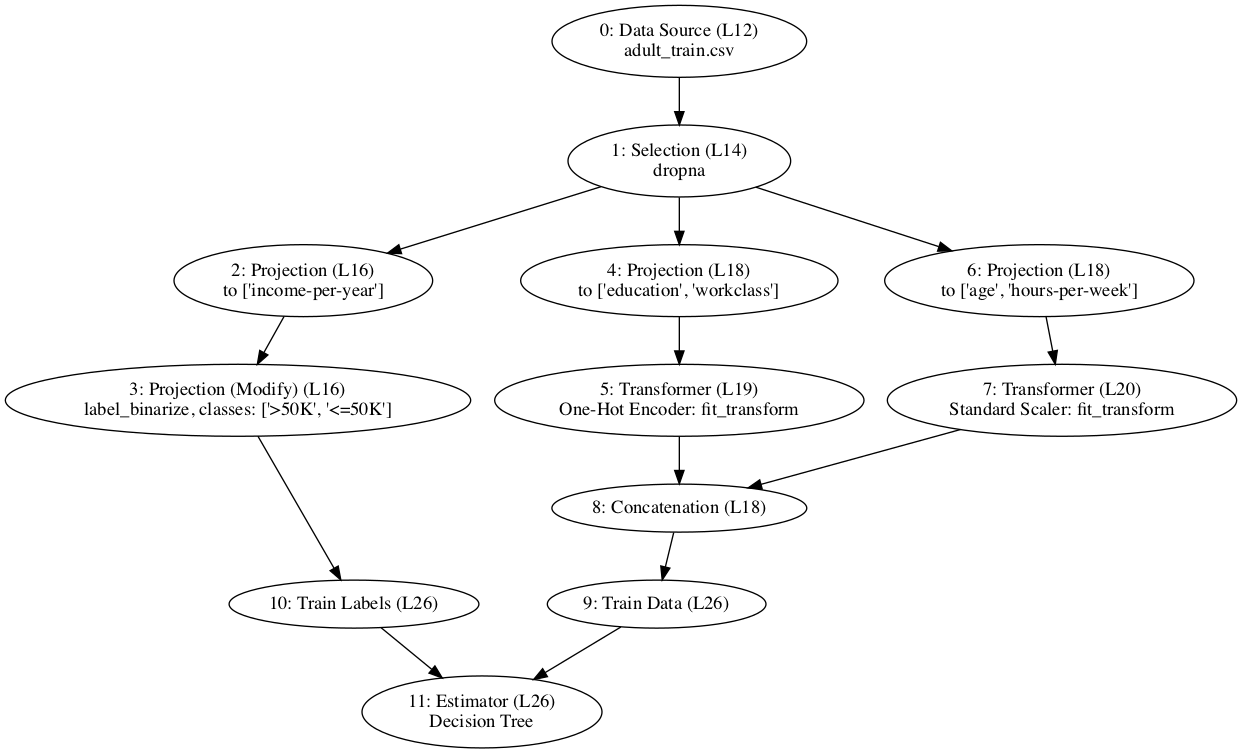
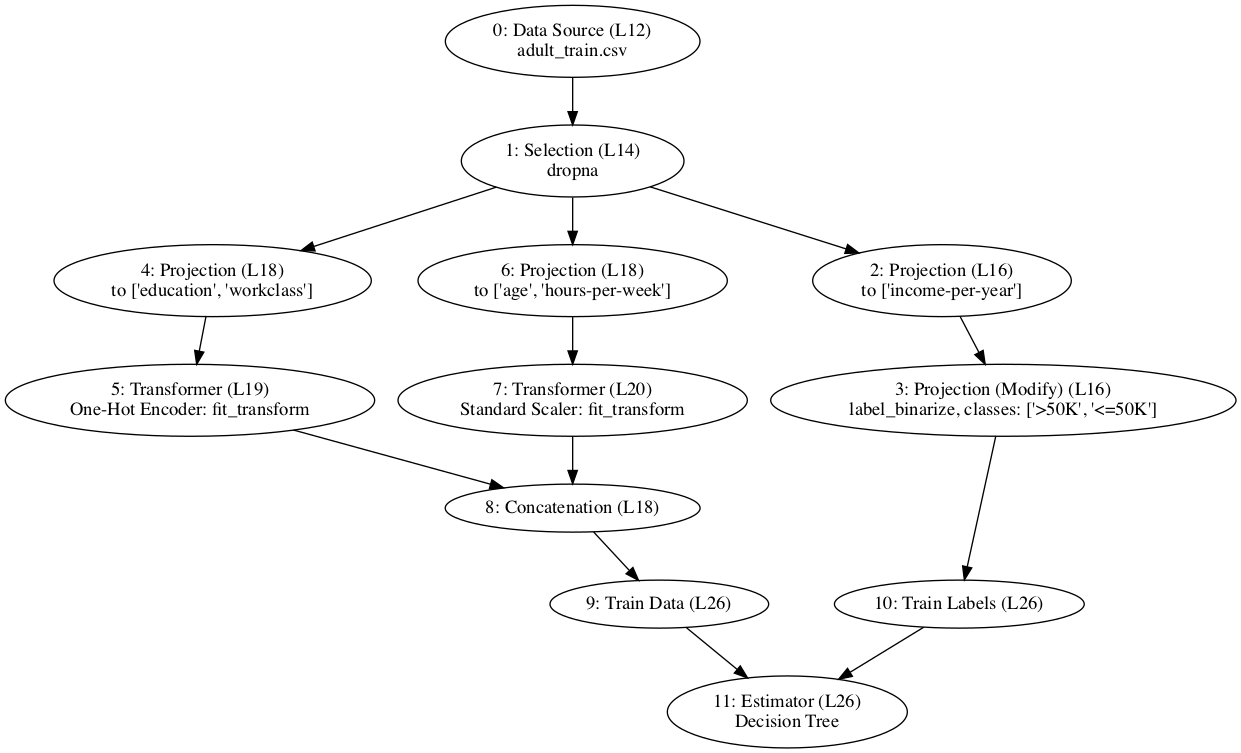
Getting closer, still some bugs

diff --git a/mlinspect/backends/_sklearn_backend.py b/mlinspect/backends/_sklearn_backend.py
@@ -48,13 +48,7 @@ class SklearnBackend(Backend):
             -> BackendResult:
         """The return value of some function"""
         # pylint: disable=too-many-arguments
-        if len(singleton.inspections) == 1 and isinstance(singleton.inspections[0], RowLineage) \
-                and operator_context.operator \
-                in {OperatorType.TRAIN_TEST_SPLIT, OperatorType.DATA_SOURCE, OperatorType.PROJECTION,
-                    OperatorType.PROJECTION_MODIFY,
-                    OperatorType.TRANSFORMER, OperatorType.TRAIN_DATA, OperatorType.TRAIN_LABELS,
-                    OperatorType.TEST_DATA, OperatorType.TEST_LABELS,
-                    OperatorType.ESTIMATOR, OperatorType.SCORE}:
+        if len(singleton.inspections) == 1 and isinstance(singleton.inspections[0], RowLineage):
             print("optimized mode")
             if operator_context.operator == OperatorType.DATA_SOURCE:
                 # inspection annotation
@@ -105,6 +99,8 @@ class SklearnBackend(Backend):
                         pandas_return_value = pandas.DataFrame({'array': pd_series})
                     elif isinstance(return_value, pandas.DataFrame):
                         pandas_return_value = return_value.reset_index(drop=True)
+                    elif isinstance(return_value, pandas.Series):
+                        pandas_return_value = pandas.DataFrame(return_value)
                     else:
                         assert False
                     lineage_dag_annotation = pandas.concat([pandas_return_value, annotations_df], axis=1)
@@ -211,8 +207,53 @@ class SklearnBackend(Backend):
                 # inspection output
                 return_value_with_annotation = create_wrapper_with_annotations(annotations_df, return_value)
                 return_value = BackendResult(return_value_with_annotation, inspection_outputs)
-            # TODO: Support score. We are only interested in output value (see map) but in the lineage of both
-            #  input values
+            elif operator_context.operator == OperatorType.CONCATENATION:
+                # inspection annotation
+                lineage_inspection = singleton.inspections[0]
+                inspection_name = str(lineage_inspection)
+                # TODO: Should we use a different format for performance reasons?
+                annotations = [input_info.result_annotation for input_info in input_infos]
+                annotations = [annotation_df.rename(columns={inspection_name: f'mlinspect_lineage_{index}'})
+                               for index, annotation_df in enumerate(annotations)]
+                annotations_df = pandas.concat(annotations, axis=1)
+                if len(annotations) == 1:
+                    annotations_df['mlinspect_lineage'] = annotations_df['mlinspect_lineage_0']
+                else:
+                    annotations_df['mlinspect_lineage'] = annotations_df \
+                        .apply(lambda row: row.mlinspect_lineage_0.union(row.mlinspect_lineage_1), axis=1)
+                    for index in range(1, len(annotations)):
+                        annotations_df['mlinspect_lineage'] = annotations_df \
+                            .apply(lambda row: row.mlinspect_lineage.union(row[f'mlinspect_lineage_{index}']), axis=1)
+                for index in range(len(annotations)):
+                    annotations_df.drop(f'mlinspect_lineage_{index}', inplace=True, axis=1)
+                inspection_outputs = {}
+                materialize_for_this_operator = (lineage_inspection.operator_type_restriction is None) or \
+                                                (operator_context.operator
+                                                 in lineage_inspection.operator_type_restriction)
+                if materialize_for_this_operator:
+                    if isinstance(return_value, numpy.ndarray):
+                        pd_series = pandas.Series(list(return_value))
+                        pandas_return_value = pandas.DataFrame({'array': pd_series})
+                    elif isinstance(return_value, csr_matrix):
+                        pd_series = pandas.Series(list(return_value.toarray()))
+                        pandas_return_value = pandas.DataFrame({'array': pd_series})
+                    elif isinstance(return_value, pandas.DataFrame):
+                        pandas_return_value = return_value.reset_index(drop=True)
+                    else:
+                        assert False
+                    lineage_dag_annotation = pandas.concat([pandas_return_value, annotations_df], axis=1)
+                    if lineage_inspection.row_count != RowLineage.ALL_ROWS:
+                        lineage_dag_annotation = lineage_dag_annotation.head(lineage_inspection.row_count)
+                else:
+                    lineage_dag_annotation = None
+                inspection_outputs[lineage_inspection] = lineage_dag_annotation
+                # inspection output
+                annotations_df = annotations_df.rename(columns={'mlinspect_lineage': inspection_name})
+                return_value_with_annotation = create_wrapper_with_annotations(annotations_df, return_value)
+                return_value = BackendResult(return_value_with_annotation, inspection_outputs)
+            else:
+                raise NotImplementedError("SklearnBackend doesn't know any operations of type '{}' yet!"
+                                          .format(operator_context.operator))
         else:
             if operator_context.operator == OperatorType.DATA_SOURCE:
                 return_value = execute_inspection_visits_data_source(operator_context, return_value,

diff --git a/mlinspect/testing/_testing_helper_utils.py b/mlinspect/testing/_testing_helper_utils.py
@@ -243,18 +243,24 @@ def run_and_assert_all_op_outputs_inspected(py_file_path, sensitive_columns, dag
     if custom_monkey_patching is None:
         custom_monkey_patching = []
 
+    # inspector_result = PipelineInspector \
+    #     .on_pipeline_from_py_file(py_file_path) \
+    #     .add_check(NoBiasIntroducedFor(sensitive_columns)) \
+    #     .add_check(NoIllegalFeatures()) \
+    #     .add_check(SimilarRemovalProbabilitiesFor(sensitive_columns)) \
+    #     .add_required_inspection(MissingEmbeddings(20)) \
+    #     .add_required_inspection(RowLineage(5)) \
+    #     .add_required_inspection(MaterializeFirstOutputRows(5)) \
+    #     .add_required_inspection(IntersectionalHistogramForColumns(sensitive_columns)) \
+    #     .add_required_inspection(ColumnPropagation(sensitive_columns, 5)) \
+    #     .add_required_inspection(CompletenessOfColumns(sensitive_columns)) \
+    #     .add_required_inspection(CountDistinctOfColumns(sensitive_columns)) \
+    #     .add_custom_monkey_patching_modules(custom_monkey_patching) \
+    #     .execute()
+
     inspector_result = PipelineInspector \
         .on_pipeline_from_py_file(py_file_path) \
-        .add_check(NoBiasIntroducedFor(sensitive_columns)) \
-        .add_check(NoIllegalFeatures()) \
-        .add_check(SimilarRemovalProbabilitiesFor(sensitive_columns)) \
-        .add_required_inspection(MissingEmbeddings(20)) \
         .add_required_inspection(RowLineage(5)) \
-        .add_required_inspection(MaterializeFirstOutputRows(5)) \
-        .add_required_inspection(IntersectionalHistogramForColumns(sensitive_columns)) \
-        .add_required_inspection(ColumnPropagation(sensitive_columns, 5)) \
-        .add_required_inspection(CompletenessOfColumns(sensitive_columns)) \
-        .add_required_inspection(CountDistinctOfColumns(sensitive_columns)) \
         .add_custom_monkey_patching_modules(custom_monkey_patching) \
         .execute()
 
@@ -263,28 +269,12 @@ def run_and_assert_all_op_outputs_inspected(py_file_path, sensitive_columns, dag
 
     for dag_node, inspection_result in inspector_result.dag_node_to_inspection_results.items():
         assert dag_node.operator_info.operator != OperatorType.MISSING_OP
-        assert MaterializeFirstOutputRows(5) in inspection_result
         assert RowLineage(5) in inspection_result
-        assert MissingEmbeddings(20) in inspection_result
-        assert HistogramForColumns(sensitive_columns) in inspection_result
         # Estimator and score do not have output
         if dag_node.operator_info.operator is not OperatorType.ESTIMATOR:
-            assert inspection_result[MaterializeFirstOutputRows(5)] is not None
             assert inspection_result[RowLineage(5)] is not None
-            assert inspection_result[HistogramForColumns(sensitive_columns)] is not None
-            assert inspection_result[ColumnPropagation(sensitive_columns, 5)] is not None
-            assert inspection_result[IntersectionalHistogramForColumns(sensitive_columns)] is not None
-            assert inspection_result[CompletenessOfColumns(sensitive_columns)] is not None
-            assert inspection_result[CountDistinctOfColumns(sensitive_columns)] is not None
         else:
-            assert inspection_result[MaterializeFirstOutputRows(5)] is None
             assert inspection_result[RowLineage(5)] is not None
-            assert inspection_result[ColumnPropagation(sensitive_columns, 5)] is not None
-            assert inspection_result[HistogramForColumns(sensitive_columns)] is None
-            assert inspection_result[IntersectionalHistogramForColumns(sensitive_columns)] is None
-            assert inspection_result[CompletenessOfColumns(sensitive_columns)] is None
-            assert inspection_result[CountDistinctOfColumns(sensitive_columns)] is None
-
     return inspector_result.dag
 
 

diff --git a/mlinspect/backends/_pandas_backend.py b/mlinspect/backends/_pandas_backend.py
@@ -43,6 +43,8 @@ class PandasBackend(Backend):
 
                 pandas_df_y = input_infos[1].result_data
                 assert isinstance(pandas_df_y, pandas.DataFrame)
+                # if len(input_infos[1].result_data.axes) == 2:  # find wayZ
+                #     input_infos[1].result_data.reset_index(drop=False, inplace=True)
                 input_infos[1].result_data['mlinspect_lineage_y'] = input_infos[1].result_annotation[inspection_name]
         else:
             if operator_context.operator == OperatorType.SELECTION:
@@ -84,7 +86,8 @@ class PandasBackend(Backend):
                     if operator_context.operator == OperatorType.DATA_SOURCE:
                         reset_index_return_value = return_value.reset_index(drop=True)
                     else:
-                        reset_index_return_value = return_value.reset_index(drop=False)
+                        return_value.reset_index(drop=False, inplace=True)
+                        reset_index_return_value = return_value
                     lineage_dag_annotation = pandas.concat([reset_index_return_value, annotations_df], axis=1)
                     if lineage_inspection.row_count != RowLineage.ALL_ROWS:
                         lineage_dag_annotation = lineage_dag_annotation.head(lineage_inspection.row_count)
